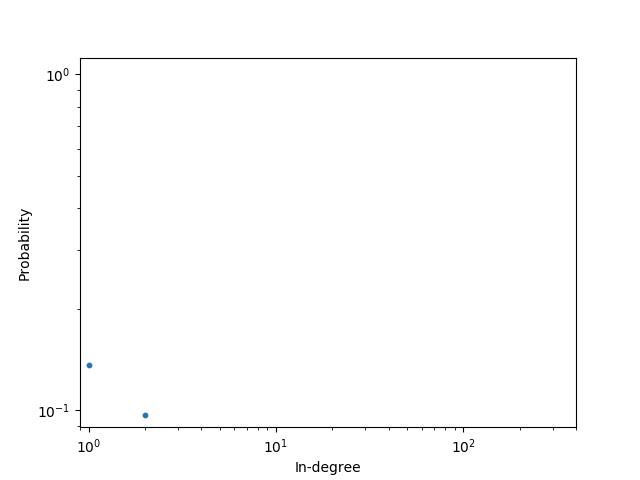
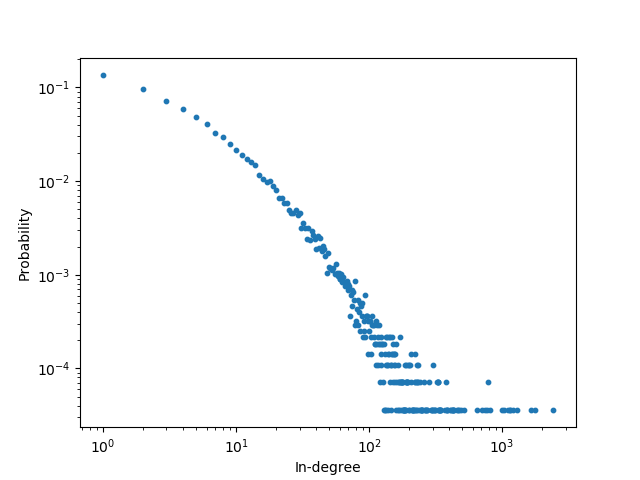
modificata immagine primo esercizio

diff --git a/lab1/es1.py b/lab1/es1.py
@@ -61,7 +61,7 @@ ax.set_xscale('log', basex=10)
 ax.set_yscale('log', basey=10)
 
 axes = plt.gca()
-axes.set_xlim([0.9, 400])
+# axes.set_xlim([0.9, 400])
 
 ax.scatter(np.arange(len(real_in_degrees)), real_in_degrees, s=10)
 plt.xlabel("In-degree")
